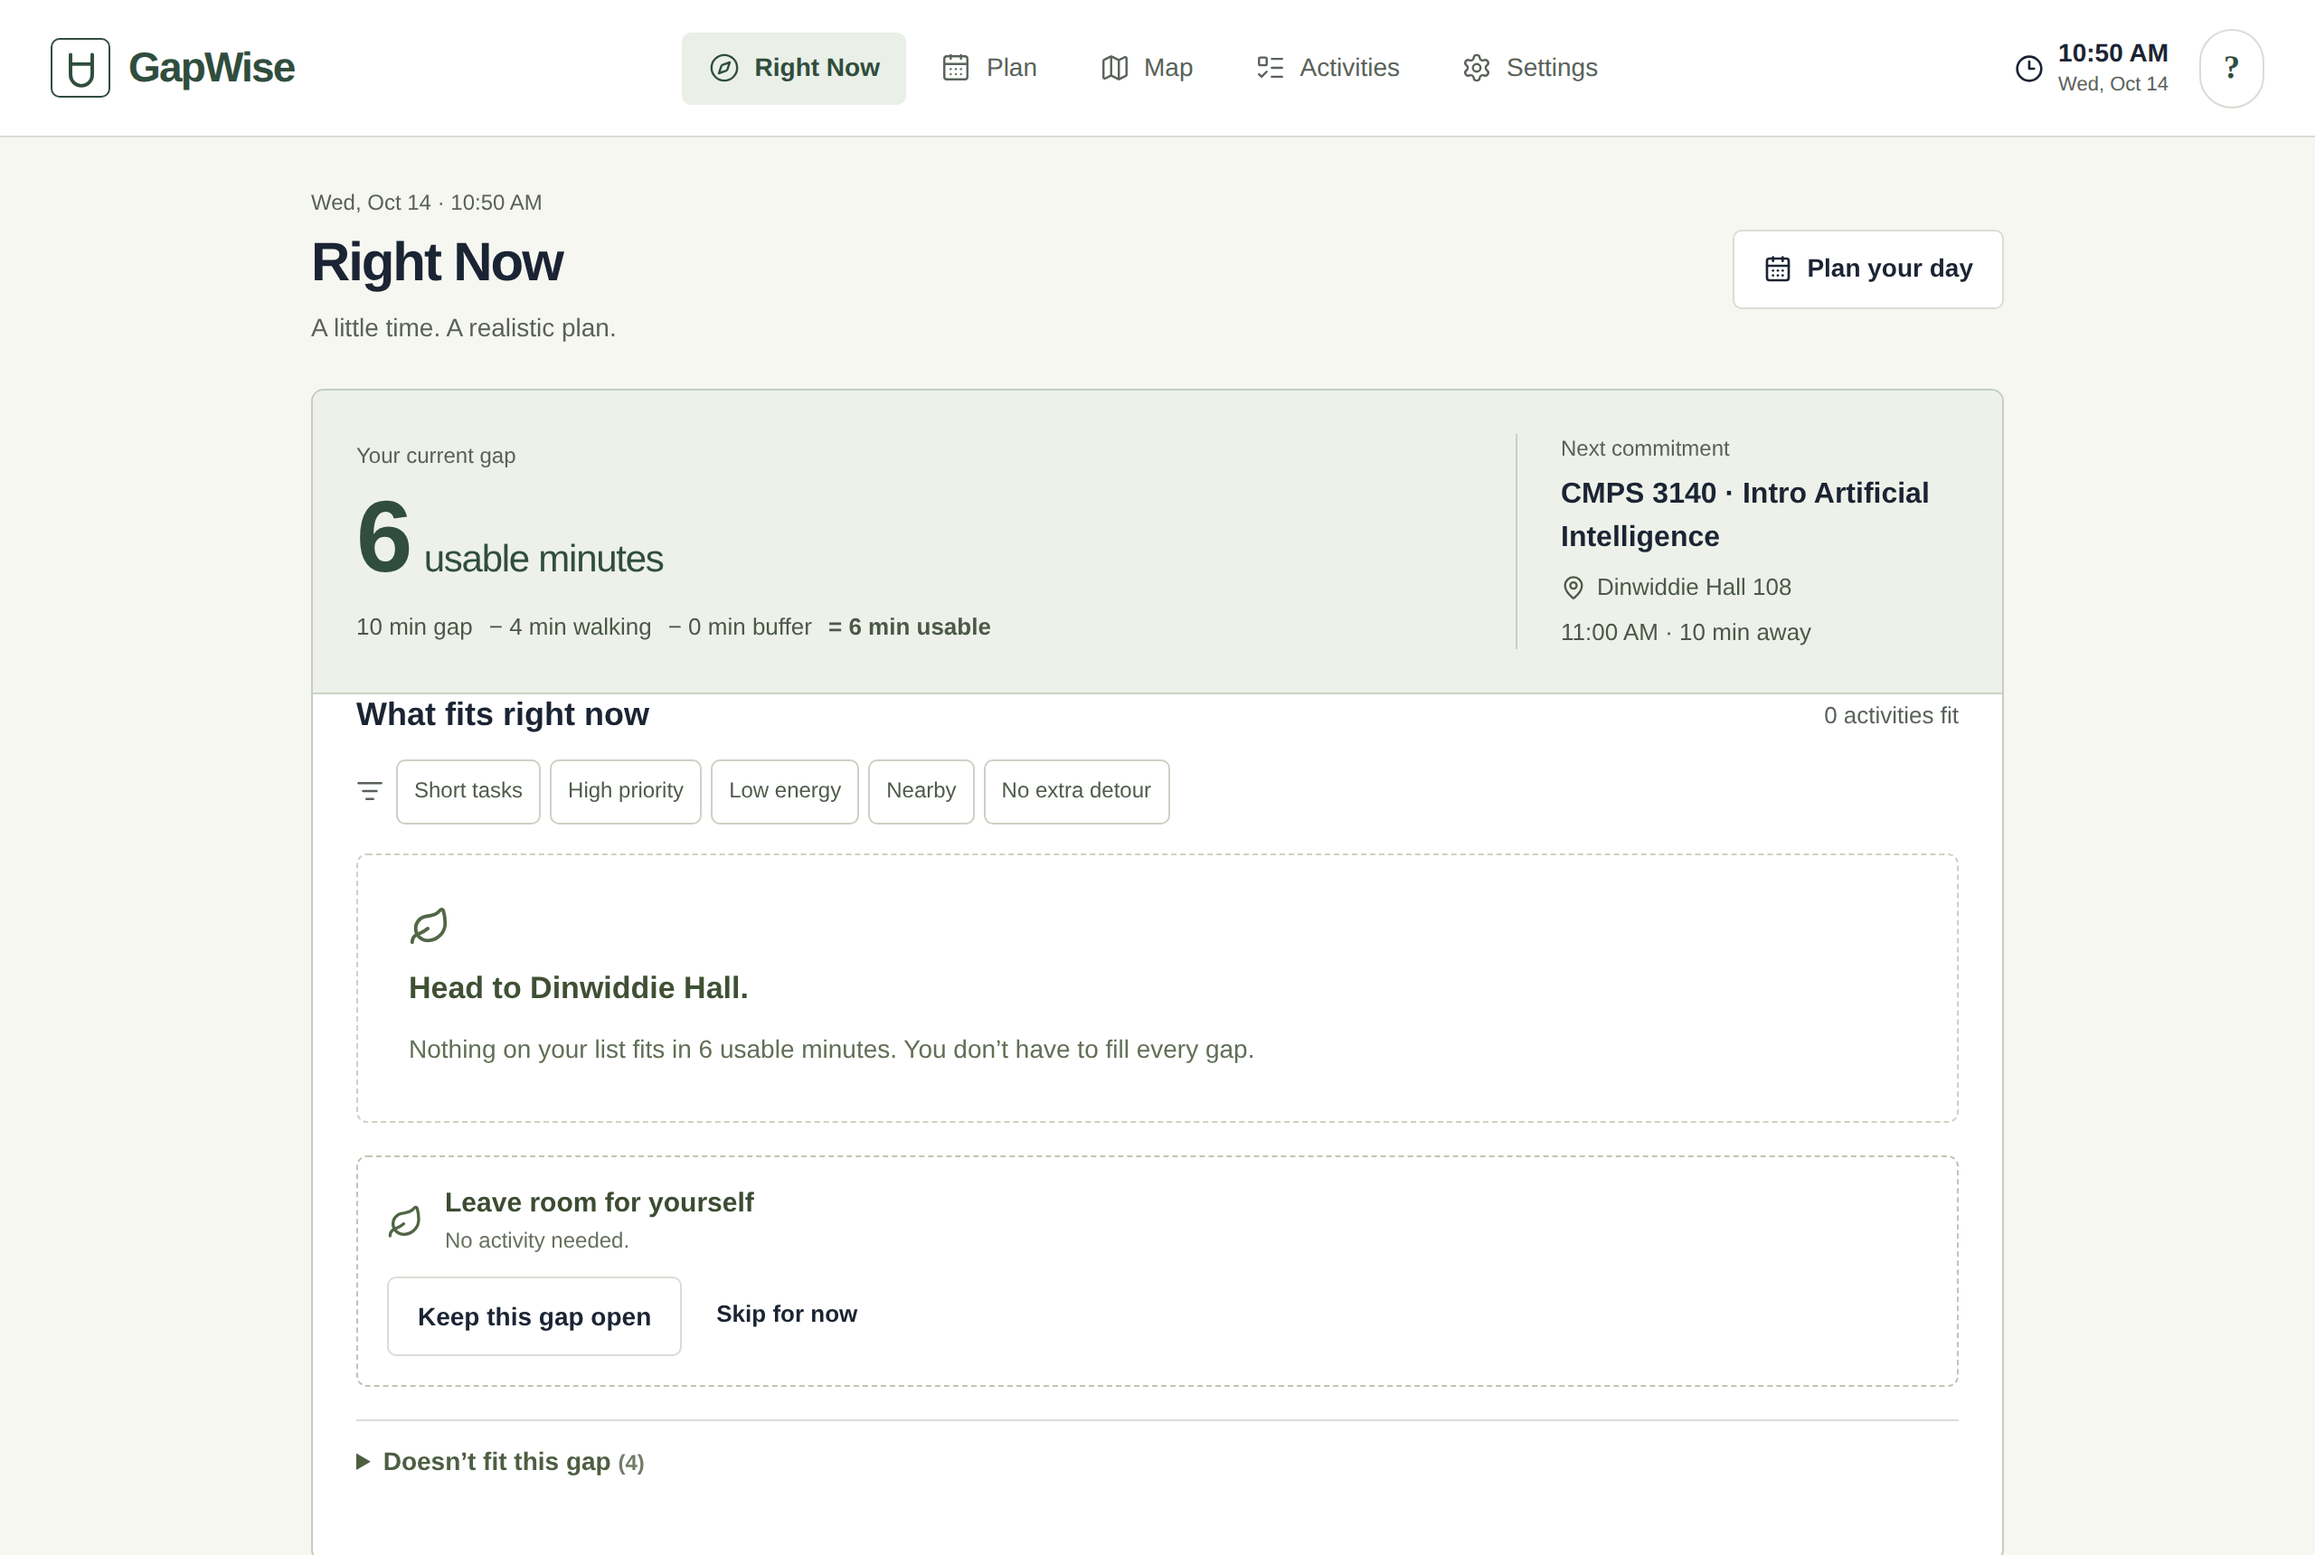
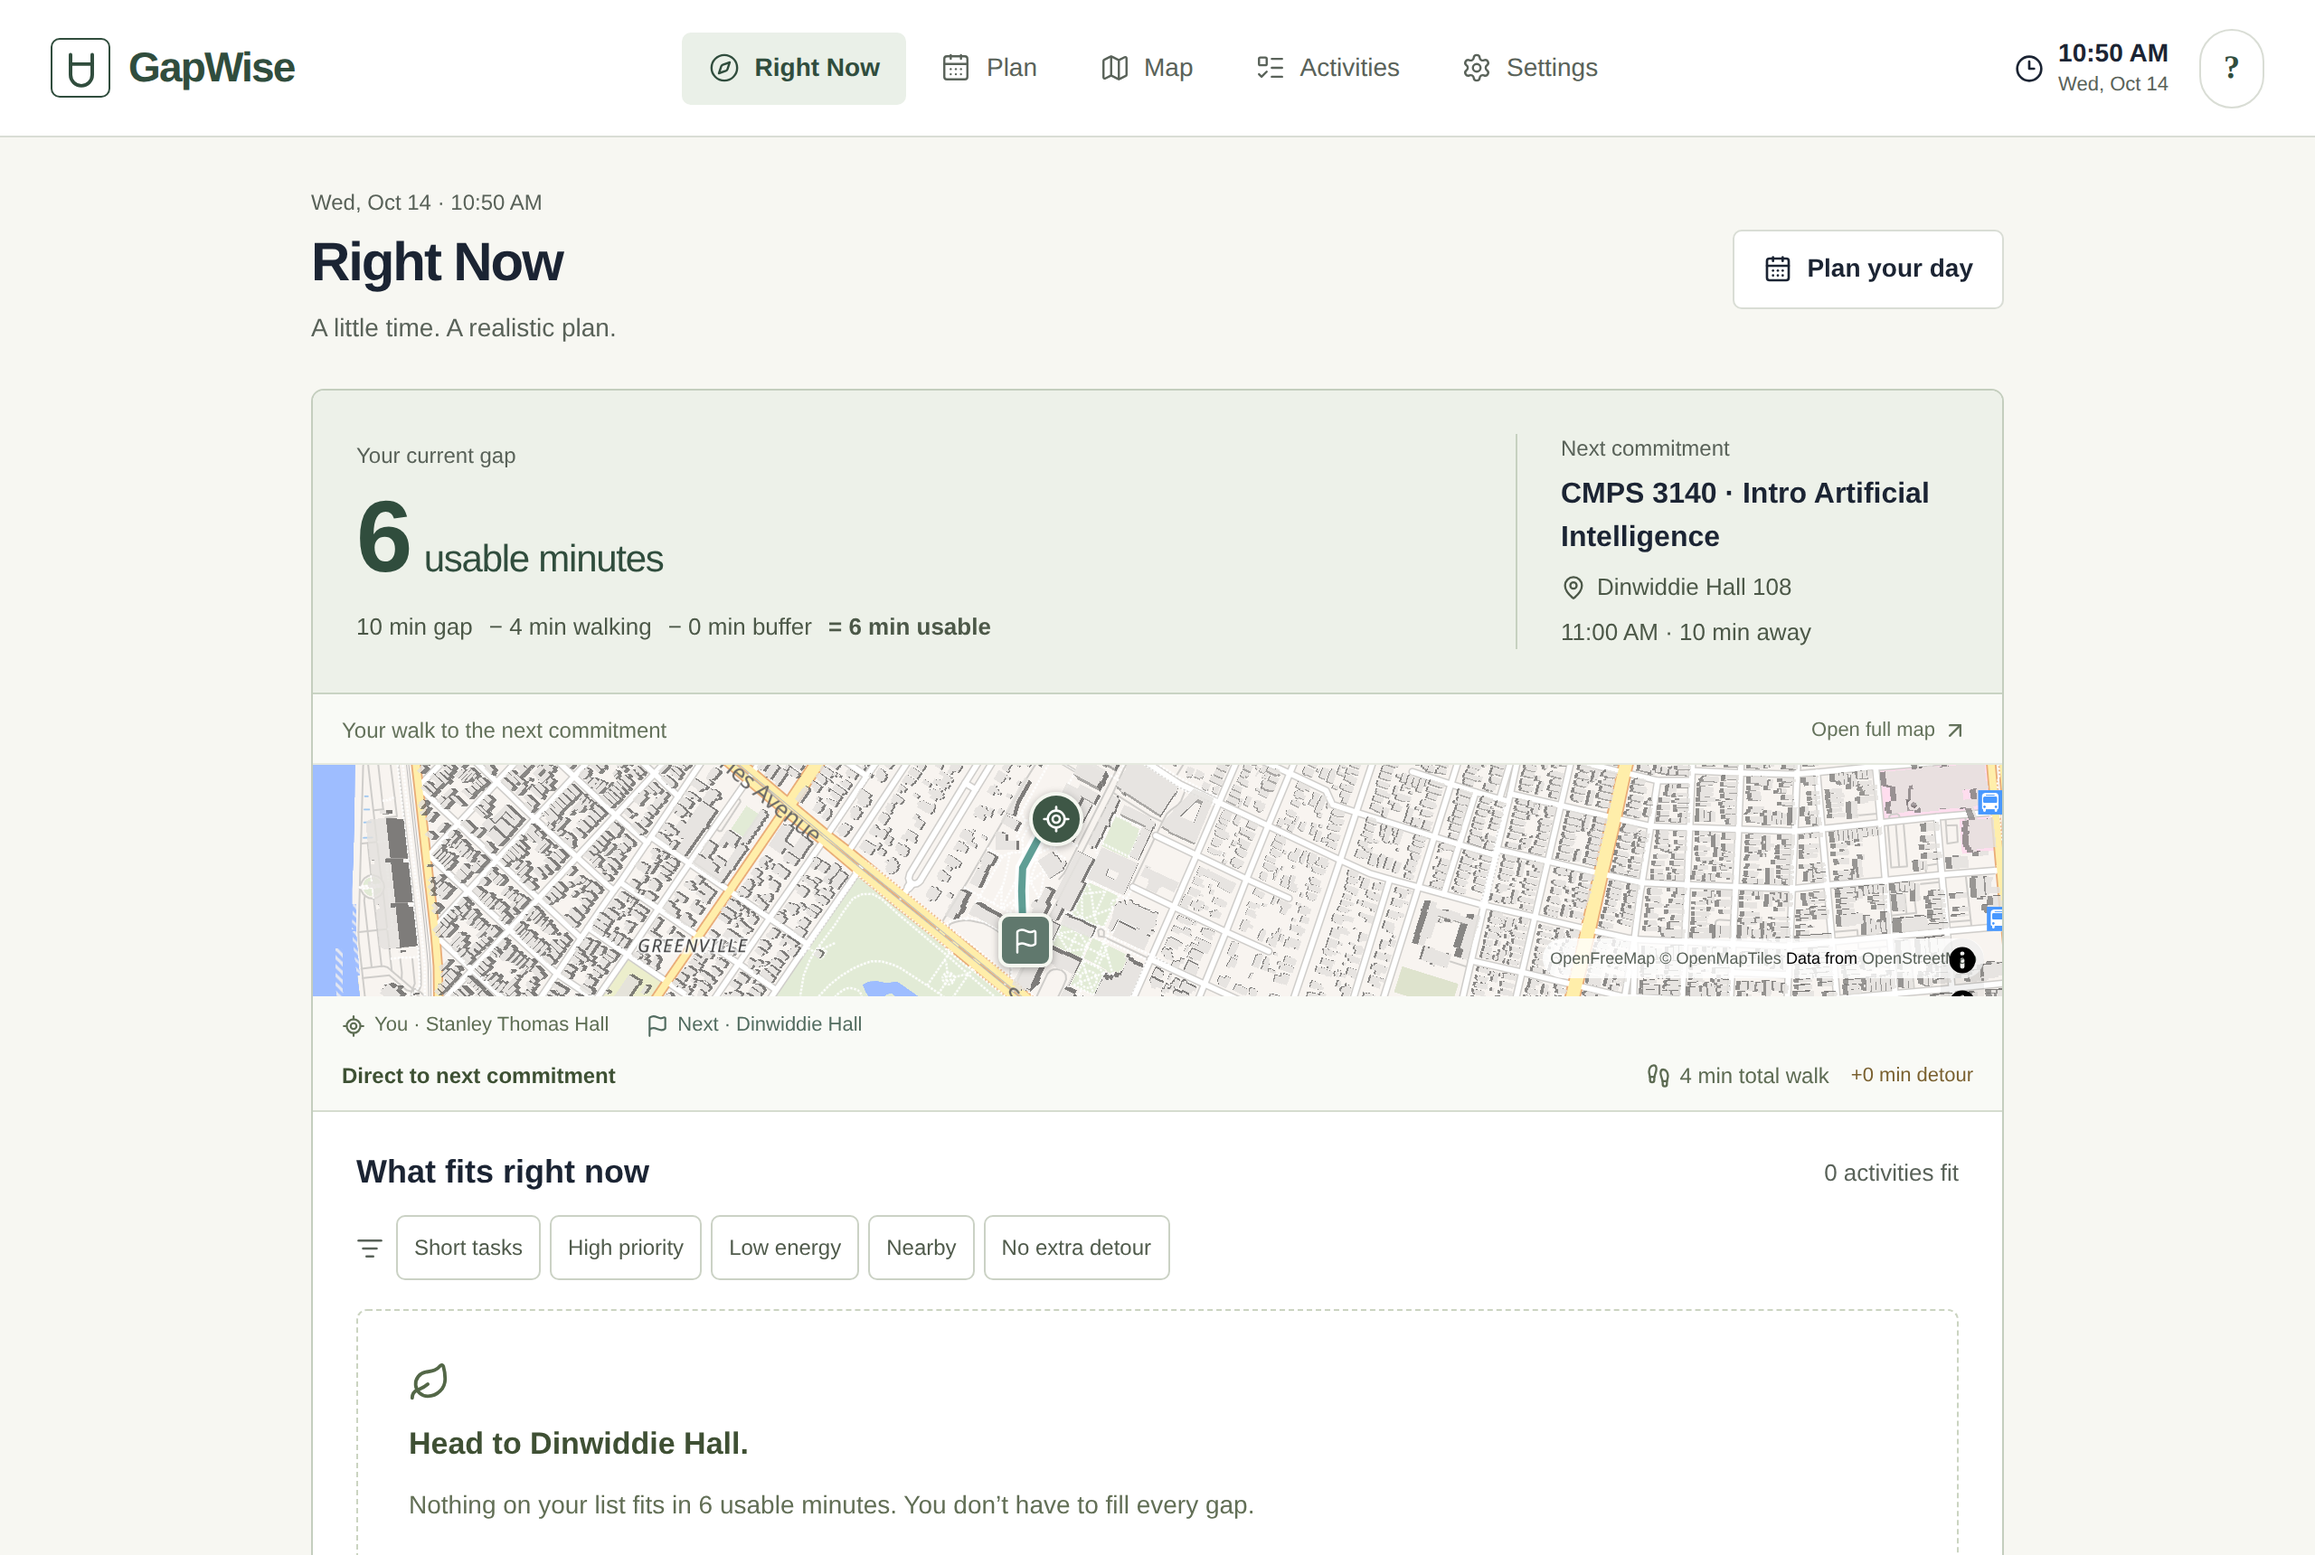
Show Right Now map in quiet state and allow multiple activities per gap

diff --git a/src/gw/GapWorkspace.tsx b/src/gw/GapWorkspace.tsx
@@ -28,7 +28,7 @@ import {
 import { EmptyState, FitBadge, RecommendationCard } from "./components"
 import { Button } from "./ui"
 import NowMapStrip from "./NowMapStrip"
-import { departureOf } from "./plan-time"
+import { departureOf, remainingState, remainingWindow } from "./plan-time"
 
 export type GapActions = {
   onSelect: (id: string, location?: string) => void
@@ -266,6 +266,7 @@ export default function GapWorkspace({
           assignment={assignment}
           actions={actions}
         />
+        {withMap && <RemainingTime state={state} gap={gap} actions={actions} />}
       </div>
     )
   }
@@ -277,7 +278,7 @@ export default function GapWorkspace({
     )
   return (
     <div className="gap-workspace">
-      {withMap && shown.length > 0 && (
+      {withMap && (
         <NowMapStrip
           gap={gap}
           evaluations={shown}
@@ -507,5 +508,77 @@ export default function GapWorkspace({
         </Button>
       )}
     </div>
+  )
+}
+
+/**
+ * Right Now: after one activity is planned, offer the time that is still free
+ * in the same gap (Plan already does this in PlanGapDetails).
+ */
+function RemainingTime({
+  state,
+  gap,
+  actions,
+}: {
+  state: State
+  gap: Gap
+  actions: GapActions
+}) {
+  const assignment = state.assign[gap.key]
+  if (assignment?.kind !== "act") return null
+  const ids = assignmentIds(assignment)
+  if (ids.every((id) => state.acts.find((a) => a.id === id)?.done)) return null
+  const window = remainingWindow(state, gap)
+  if (!window || window.gap.usable <= 0) return null
+  const remainingActions: GapActions = {
+    ...actions,
+    onAssign: (g, ids, location) => actions.onAssign(g, ids, location, true),
+    onDetails: (id, g, location) => actions.onDetails(id, g, location, true),
+    onMap: (g, id, location) => actions.onMap(g, id, location, true),
+    onChoice: (_, kind) => actions.onRemainingChoice(gap, kind),
+  }
+  if (assignment.remainingChoice)
+    return (
+      <section
+        className="plan-remaining-time"
+        aria-label="Remaining available time"
+      >
+        <div className="section-heading">
+          <h3>
+            {window.gap.usable} min{" "}
+            {assignment.remainingChoice === "open"
+              ? "kept open"
+              : "left for later"}
+          </h3>
+          {assignment.remainingChoice === "open" && <Leaf size={17} />}
+        </div>
+        <Button
+          variant="secondary"
+          size="small"
+          onClick={() => actions.onRemainingChoice(gap)}
+        >
+          <RotateCcw size={13} />
+          Plan this time instead
+        </Button>
+      </section>
+    )
+  return (
+    <section
+      className="plan-remaining-time"
+      aria-label="Remaining available time"
+    >
+      <p className="small muted">
+        {fmt(window.start)}–{fmt(window.end)} is still free. Walking to{" "}
+        {gap.next.location} and your arrival buffer stay reserved.
+      </p>
+      <GapWorkspace
+        key={`${gap.key}-${window.gap.start}`}
+        state={remainingState(state, gap)}
+        gap={window.gap}
+        actions={remainingActions}
+        remaining
+        heading={`Add more · ${window.gap.usable} min still available`}
+      />
+    </section>
   )
 }

diff --git a/tests/browser/personas.spec.ts b/tests/browser/personas.spec.ts
@@ -56,14 +56,18 @@ test("an empty schedule still works through the manual forms", async ({ page }) 
   await expect(page.locator(".schedule-source")).toContainText("your own entries")
 })
 
-test("Ryan at 10:50 gets the quiet state: nothing to add, head to Dinwiddie Hall, no map strip", async ({
+test("Ryan at 10:50 gets the quiet state: nothing to add, head to Dinwiddie Hall, and the map still shows his walk", async ({
   page,
 }) => {
   await open(page, "persona=ryan&t=10:50")
   await expect(usable(page)).toContainText("6")
   await expect(page.locator(".now-card")).toContainText("Head to Dinwiddie Hall.")
   await expect(page.locator(".now-card")).toContainText("0 activities fit")
-  await expect(page.locator(".now-map-strip")).toHaveCount(0)
+  const strip = page.locator(".now-map-strip")
+  await expect(strip).toBeVisible()
+  await expect(strip).toContainText("Your walk to the next commitment")
+  await expect(strip).toContainText("Direct to next commitment")
+  await expect(strip.getByRole("button", { name: /^Suggestion/ })).toHaveCount(0)
   await expect(page.locator(".now-card")).toContainText("You don’t have to fill every gap.")
 })
 
@@ -225,4 +229,29 @@ test("the help sheet describes the current tab and lists the persona's tasks", a
   await expect(dialog(page)).toContainText("Plan Thursday, or don't")
   await dialog(page).getByRole("button", { name: "Got it" }).click()
   await expect(dialog(page)).toHaveCount(0)
+})
+
+test("after adding one activity on Right Now, the remaining time in the same gap can take another", async ({
+  page,
+}) => {
+  await open(page, "persona=stella&t=11:00")
+  await card(page, "Print assignment").getByRole("button", { name: "Add to gap", exact: true }).click()
+  await expect(usable(page)).toContainText("38")
+  const remaining = page.getByRole("region", { name: "Remaining available time" })
+  await expect(remaining).toContainText("still available")
+  await remaining
+    .getByRole("article", { name: "Coffee", exact: true })
+    .getByRole("button", { name: "Add to gap", exact: true })
+    .click()
+  await expect(page.locator(".assignment-card h3")).toContainText("Print assignment + Coffee")
+  await expect(usable(page)).toContainText("28")
+  const saved = await readState(page)
+  expect(Object.values(saved.assign).map((a: any) => a.ids)).toEqual([["print", "coffee"]])
+  await page
+    .getByRole("region", { name: "Remaining available time" })
+    .getByRole("button", { name: "Keep remaining time open" })
+    .click()
+  await expect(page.getByRole("region", { name: "Remaining available time" })).toContainText("kept open")
+  await undo(page)
+  await expect(page.getByRole("region", { name: "Remaining available time" })).toContainText("still available")
 })

diff --git a/src/gw/NowMapStrip.tsx b/src/gw/NowMapStrip.tsx
@@ -69,7 +69,11 @@ export default function NowMapStrip({
     >
       <header className="now-strip-heading">
         <span>
-          {sequence ? "Your planned route" : "Suggestions on your way"}
+          {sequence
+            ? "Your planned route"
+            : options.length
+              ? "Suggestions on your way"
+              : "Your walk to the next commitment"}
         </span>
         <Button
           size="small"

diff --git a/docs/ai-log.md b/docs/ai-log.md
@@ -93,3 +93,9 @@ One line per meaningful proposal, with what Davis accepted, changed, or rejected
 - Selecting a recommendation remains a preview. The time is reserved when the user presses Add to gap; clearing or undoing an assignment restores it. No fit, ranking, travel, or schedule data was changed.
 - Added three browser regression scenarios, each configured for desktop and mobile: preview/add/undo, Plan-to-Right-Now consistency, and clock advancement. Test collection passed; browser execution remains unverified due to the environment limitation above.
 - Verification: TypeScript, 55/55 unit tests, production build, and Vite server-render checks passed. Render checks covered initial Stella (48), Print (38), Lunch (13), Print + Coffee (28), Print with the clock advanced to 11:30 (25), and restoring the unassigned state (48).
+
+## Right Now map and multi-activity fixes (2026-11-15)
+
+- Davis reported that Ryan's Right Now had no mini-map and asked whether that was only because his gap is short. Verified it was not the gap length: his 10:50 gap has 6 usable minutes, and the strip was hidden by a rule that hides it whenever no activity fits (BUILD.md Phase 5 asked for exactly that). Giving Ryan a 3-minute task in the same gap made the strip appear. Davis overrode the spec: the strip now always shows the walk to the next commitment, titled "Your walk to the next commitment" with no option pins when nothing fits.
+- Davis reported that Right Now allowed only one activity per gap. After one was planned, the card showed the plan and nothing else, even with 38 minutes left (Stella after Print). Right Now now shows the remaining free window under the plan and lets the user add more activities, keep the rest open, or decide later. It reuses Plan's existing remaining-time logic (`remainingWindow`, `remainingState`, `appendToGap`), so no fit or travel logic changed.
+- Tests: Ryan's quiet-state test now expects the strip with no suggestions; a new desktop + mobile test adds Print then Coffee on Right Now (48 → 38 → 28 usable), keeps the rest open, and undoes. `make check`: 55 unit, 50 browser tests pass. Figures regenerated (figure 8 now includes the map).

diff --git a/docs/prototyping-process.md b/docs/prototyping-process.md
@@ -1,0 +1,7 @@
+# Prototyping process and tools (report §3.2 draft)
+
+Our low-fidelity prototype was built in Figma Make as a React, Vite, and Tailwind app with hand-written fit logic. For the hi-fi prototype we moved it to GitHub and Vercel and used Claude Code as a pair programmer, driven by a build specification we wrote first. The spec fixed what could not change (no calendar connections, no backend, no device location, no changes to the fit logic) and set checkpoints where a team member had to approve the work before it continued.
+
+AI contributed in four places. It wrote the scripts that geocode seventeen campus buildings with OpenStreetMap and fetch real walking routes from a public foot router; it generated the three student personas, their activities, and the graders' deep links; it replaced our schematic SVG map with a real MapLibre map, including the fallback when tiles are blocked; and it wrote the unit and browser tests, report figures, and accessibility fixes (contrast, touch targets, a per-tab help sheet), and debugged a bundling problem with the map's web worker.
+
+We reviewed every output against the spec and a running decision log and changed or rejected several. When the AI could not find Tulane's tennis center in OpenStreetMap, it researched Tulane's site and moved the pin to the new facility at 200 Broadway. That was defensible but put practice a 40-minute walk from the Wilson Center and would have distorted Stella's whole week, so we kept the courts beside Reily and recorded why. We also dropped the plan to copy real class sections (login-only data) and set the times ourselves on Tulane's M W F / T Th grid, and we corrected its shuttle-stop placement. After release one of us found that adding an activity did not update the Right Now headline; the fix went through pull-request review with the fit logic untouched.
